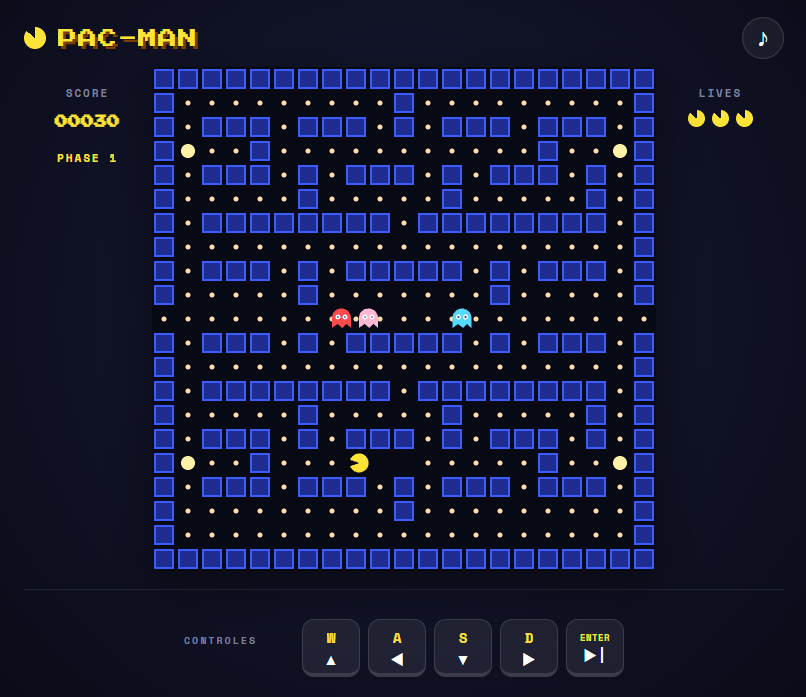
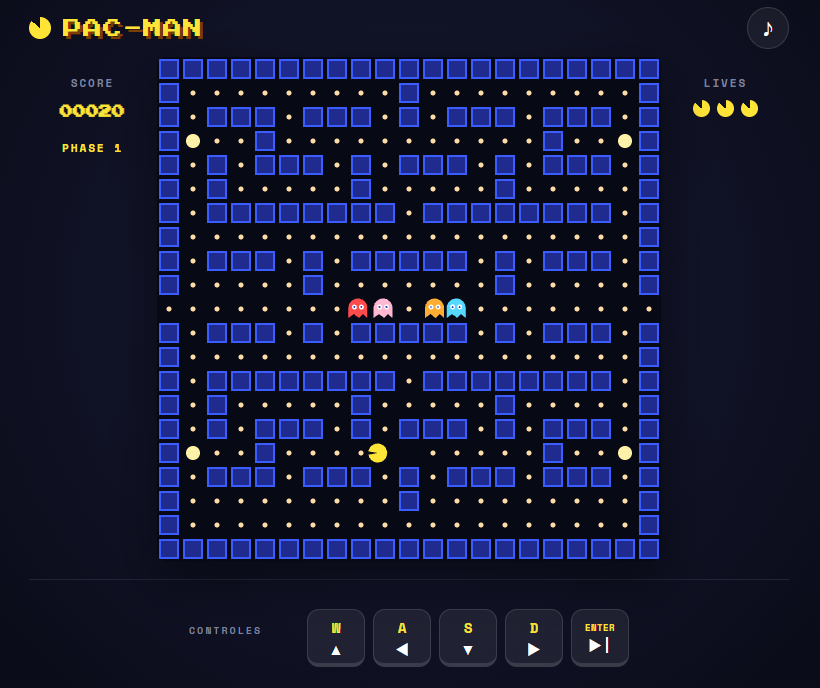
feat: add four distinct ghost personalities

diff --git a/src/game/GhostAI.js b/src/game/GhostAI.js
@@ -1,19 +1,20 @@
 import { GAME_CONFIG } from '../config/gameConfig.js'
 import { DIRECTIONS, REVERSE_DIRECTION } from '../entities/directions.js'
+import { getGhostTarget } from './ghostBehaviors.js'
 
 export class GhostAI {
   constructor (movement) {
     this.movement = movement
   }
 
-  update (ghost, player, frightenedUntil, dt, now) {
+  update (ghost, player, frightenedUntil, dt, now, ghosts = [ghost]) {
     const { tileSize } = GAME_CONFIG
     if (this.movement.atCenter(ghost.x) && this.movement.atCenter(ghost.y)) {
-      this.movement.snap(ghost)
       const gx = Math.round((ghost.x - tileSize / 2) / tileSize)
       const gy = Math.round((ghost.y - tileSize / 2) / tileSize)
       const decisionKey = `${gx},${gy}`
       if (ghost.lastDecision !== decisionKey) {
+        this.movement.snap(ghost)
         ghost.lastDecision = decisionKey
         let options = Object.keys(DIRECTIONS).filter(dir => dir !== 'none' && this.movement.canMove(ghost.x, ghost.y, dir))
         const reverse = REVERSE_DIRECTION[ghost.dir]
@@ -22,13 +23,17 @@ export class GhostAI {
         if (!options.length && reverse && this.movement.canMove(ghost.x, ghost.y, reverse)) options = [reverse]
 
         if (options.length) {
-          ghost.dir = this.chooseDirection(ghost, player, gx, gy, options, frightenedUntil > now)
+          ghost.dir = this.chooseDirection(ghost, player, gx, gy, options, frightenedUntil > now, ghosts)
         } else {
           ghost.dir = 'none'
         }
       } else if (!this.movement.canMove(ghost.x, ghost.y, ghost.dir)) {
         let options = Object.keys(DIRECTIONS).filter(dir => dir !== 'none' && this.movement.canMove(ghost.x, ghost.y, dir))
+        const reverse = REVERSE_DIRECTION[ghost.dir]
+        const forwardOptions = options.filter(dir => dir !== reverse)
+        if (forwardOptions.length) options = forwardOptions
         if (options.length) ghost.dir = options[0]
+        else ghost.dir = 'none'
       } else {
         this.movement.alignToCorridor(ghost)
       }
@@ -36,28 +41,28 @@ export class GhostAI {
     this.movement.move(ghost, ghost.speed, dt, false)
   }
 
-  chooseDirection (ghost, player, gx, gy, options, frightened) {
-    const { tileSize, columns, rows } = GAME_CONFIG
-    const px = Math.round((player.x - tileSize / 2) / tileSize)
-    const py = Math.round((player.y - tileSize / 2) / tileSize)
-    const playerDir = DIRECTIONS[player.dir] || DIRECTIONS.none
-    const target = { x: px, y: py }
-
-    if (!frightened && ghost.personality === 'ambusher') {
-      target.x = px + playerDir.x * 4
-      target.y = py + playerDir.y * 4
-    } else if (!frightened && ghost.personality === 'wanderer' && Math.random() < 0.45) {
-      target.x = gx < columns / 2 ? columns - 3 : 3
-      target.y = gy < rows / 2 ? rows - 3 : 3
-    }
+  chooseDirection (ghost, player, gx, gy, options, frightened, ghosts) {
+    const { tileSize } = GAME_CONFIG
+    const target = frightened
+      ? null
+      : getGhostTarget(ghost, player, ghosts, gx, gy)
+    const playerX = Math.round((player.x - tileSize / 2) / tileSize)
+    const playerY = Math.round((player.y - tileSize / 2) / tileSize)
 
     let best = options[0]
     let bestDistance = frightened ? -Infinity : Infinity
     for (const dir of options) {
       const vector = DIRECTIONS[dir]
-      const dx = gx + vector.x - target.x
-      const dy = gy + vector.y - target.y
-      const distance = dx * dx + dy * dy
+      let distance
+      if (frightened) {
+        const dx = gx + vector.x - playerX
+        const dy = gy + vector.y - playerY
+        distance = dx * dx + dy * dy
+      } else {
+        const dx = gx + vector.x - target.x
+        const dy = gy + vector.y - target.y
+        distance = dx * dx + dy * dy
+      }
       if ((frightened && distance > bestDistance) || (!frightened && distance < bestDistance)) {
         best = dir
         bestDistance = distance

diff --git a/src/game/Movement.js b/src/game/Movement.js
@@ -39,17 +39,27 @@ export class Movement {
   move (entity, speed, dt, isPlayer = false) {
     const { columns, rows } = GAME_CONFIG
     if (isPlayer && entity.nextDir) {
+      if (entity.nextDirExpires && performance.now() >= entity.nextDirExpires) {
+        entity.nextDir = 'none'
+        entity.nextDirExpires = 0
+      }
       if (entity.nextDir === REVERSE_DIRECTION[entity.dir]) {
         entity.dir = entity.nextDir
         entity.nextDir = 'none'
+        entity.nextDirExpires = 0
       } else if (entity.nextDir === entity.dir) {
         entity.nextDir = 'none'
+        entity.nextDirExpires = 0
       } else if (this.atCenter(entity.x) && this.atCenter(entity.y)) {
         if (this.canMove(entity.x, entity.y, entity.nextDir)) {
           this.alignTurnAxis(entity, entity.nextDir)
           entity.dir = entity.nextDir
+          entity.nextDir = 'none'
+          entity.nextDirExpires = 0
         }
+      } else if (this.tryBufferedTurn(entity)) {
         entity.nextDir = 'none'
+        entity.nextDirExpires = 0
       }
     }
 
@@ -76,6 +86,43 @@ export class Movement {
     } else {
       entity.x = this.nearestCenter(entity.x)
     }
+  }
+
+  tryBufferedTurn (entity) {
+    const { tileSize } = GAME_CONFIG
+    const direction = DIRECTIONS[entity.nextDir]
+    const currentDirection = DIRECTIONS[entity.dir] || DIRECTIONS.none
+    if (!direction || !currentDirection || direction.x === currentDirection.x && direction.y === currentDirection.y) return false
+    if (direction.x !== 0 && currentDirection.x !== 0) return false
+    if (direction.y !== 0 && currentDirection.y !== 0) return false
+
+    const turnWindow = 4
+
+    if (currentDirection.x !== 0) {
+      if (!this.atCenter(entity.y)) return false
+      const gridPosition = (entity.x - tileSize / 2) / tileSize
+      const centerIndex = currentDirection.x > 0 ? Math.ceil(gridPosition) : Math.floor(gridPosition)
+      const candidateX = centerIndex * tileSize + tileSize / 2
+      if (Math.abs(entity.x - candidateX) > turnWindow) return false
+      if (!this.canMove(candidateX, entity.y, entity.nextDir)) return false
+      this.alignTurnAxis(entity, entity.nextDir)
+      entity.dir = entity.nextDir
+      return true
+    }
+
+    if (currentDirection.y !== 0) {
+      if (!this.atCenter(entity.x)) return false
+      const gridPosition = (entity.y - tileSize / 2) / tileSize
+      const centerIndex = currentDirection.y > 0 ? Math.ceil(gridPosition) : Math.floor(gridPosition)
+      const candidateY = centerIndex * tileSize + tileSize / 2
+      if (Math.abs(entity.y - candidateY) > turnWindow) return false
+      if (!this.canMove(entity.x, candidateY, entity.nextDir)) return false
+      this.alignTurnAxis(entity, entity.nextDir)
+      entity.dir = entity.nextDir
+      return true
+    }
+
+    return false
   }
 
   alignToCorridor (entity) {

diff --git a/src/game/ghostBehaviors.js b/src/game/ghostBehaviors.js
@@ -1,0 +1,45 @@
+import { GAME_CONFIG } from '../config/gameConfig.js'
+import { DIRECTIONS } from '../entities/directions.js'
+
+export function getGhostTarget (ghost, player, ghosts, gx, gy) {
+  const { tileSize, columns, rows } = GAME_CONFIG
+  const playerX = Math.round((player.x - tileSize / 2) / tileSize)
+  const playerY = Math.round((player.y - tileSize / 2) / tileSize)
+  const playerDirection = DIRECTIONS[player.dir] || DIRECTIONS.none
+
+  switch (ghost.personality) {
+    case 'chaser':
+      return { x: playerX, y: playerY }
+    case 'ambusher':
+      return {
+        x: playerX + playerDirection.x * 4,
+        y: playerY + playerDirection.y * 4
+      }
+    case 'flanker': {
+      const blinky = ghosts.find(candidate => candidate.name === 'Blinky')
+      const blinkyX = blinky
+        ? Math.round((blinky.x - tileSize / 2) / tileSize)
+        : playerX
+      const blinkyY = blinky
+        ? Math.round((blinky.y - tileSize / 2) / tileSize)
+        : playerY
+      const pivotX = playerX + playerDirection.x * 2
+      const pivotY = playerY + playerDirection.y * 2
+      return {
+        x: pivotX * 2 - blinkyX,
+        y: pivotY * 2 - blinkyY
+      }
+    }
+    case 'shy': {
+      const distance = Math.hypot(gx - playerX, gy - playerY)
+      return distance > 8
+        ? { x: playerX, y: playerY }
+        : { x: 1, y: rows - 2 }
+    }
+    default:
+      return {
+        x: gx < columns / 2 ? columns - 3 : 3,
+        y: gy < rows / 2 ? rows - 3 : 3
+      }
+  }
+}

diff --git a/src/entities/createEntities.js b/src/entities/createEntities.js
@@ -1,4 +1,8 @@
 import { GAME_CONFIG } from '../config/gameConfig.js'
+import { createBlinky } from './ghosts/Blinky.js'
+import { createPinky } from './ghosts/Pinky.js'
+import { createInky } from './ghosts/Inky.js'
+import { createClyde } from './ghosts/Clyde.js'
 
 export function createPlayer () {
   const { tileSize } = GAME_CONFIG
@@ -14,10 +18,9 @@ export function createPlayer () {
 }
 
 export function createGhosts () {
-  const { tileSize } = GAME_CONFIG
-  return [
-    { x: 9.5 * tileSize, y: 10.5 * tileSize, dir: 'left', color: '#ff4b4b', speed: 78, centerLock: false, lastDecision: '', personality: 'chaser' },
-    { x: 10.5 * tileSize, y: 10.5 * tileSize, dir: 'up', color: '#ffb8d1', speed: 72, centerLock: false, lastDecision: '', personality: 'ambusher' },
-    { x: 11.5 * tileSize, y: 10.5 * tileSize, dir: 'right', color: '#55d9ff', speed: 68, centerLock: false, lastDecision: '', personality: 'wanderer' }
-  ]
+  return [createBlinky(), createPinky(), createInky(), createClyde()].map(ghost => ({
+    ...ghost,
+    spawnX: ghost.x,
+    spawnY: ghost.y
+  }))
 }

diff --git a/src/game/PacManGame.js b/src/game/PacManGame.js
@@ -87,7 +87,7 @@ export class PacManGame {
     if (this.running) {
       this.movement.move(this.player, GAME_CONFIG.playerSpeed, dt, true)
       this.collectPellet()
-      this.ghosts.forEach(ghost => this.ghostAI.update(ghost, this.player, this.frightenedUntil, dt, now))
+      this.ghosts.forEach(ghost => this.ghostAI.update(ghost, this.player, this.frightenedUntil, dt, now, this.ghosts))
       this.checkGhostCollisions(now)
     }
     this.renderer.draw(this.player, this.ghosts, now)
@@ -122,7 +122,13 @@ export class PacManGame {
         this.score += 200
         this.ui.updateHud(this.score, this.lives, this.level)
         this.audioService.ghostEaten()
-        Object.assign(ghost, { x: 10.5 * GAME_CONFIG.tileSize, y: 9.5 * GAME_CONFIG.tileSize, dir: 'left' })
+        Object.assign(ghost, {
+          x: ghost.spawnX,
+          y: ghost.spawnY,
+          dir: 'left',
+          lastDecision: '',
+          lastDecision: ''
+        })
       } else {
         this.loseLife()
         break

diff --git a/src/entities/ghosts/Blinky.js b/src/entities/ghosts/Blinky.js
@@ -1,0 +1,17 @@
+import { GAME_CONFIG } from '../../config/gameConfig.js'
+
+export function createBlinky () {
+  const { tileSize } = GAME_CONFIG
+  return {
+    name: 'Blinky',
+    personality: 'chaser',
+    color: '#ff4b4b',
+    x: 9.5 * tileSize,
+    y: 10.5 * tileSize,
+    dir: 'left',
+    speed: 78,
+    centerLock: false,
+    lastDecision: ''
+  }
+}
+

diff --git a/src/entities/ghosts/Inky.js b/src/entities/ghosts/Inky.js
@@ -1,0 +1,17 @@
+import { GAME_CONFIG } from '../../config/gameConfig.js'
+
+export function createInky () {
+  const { tileSize } = GAME_CONFIG
+  return {
+    name: 'Inky',
+    personality: 'flanker',
+    color: '#55d9ff',
+    x: 11.5 * tileSize,
+    y: 10.5 * tileSize,
+    dir: 'right',
+    speed: 68,
+    centerLock: false,
+    lastDecision: ''
+  }
+}
+

diff --git a/src/entities/ghosts/Pinky.js b/src/entities/ghosts/Pinky.js
@@ -1,0 +1,17 @@
+import { GAME_CONFIG } from '../../config/gameConfig.js'
+
+export function createPinky () {
+  const { tileSize } = GAME_CONFIG
+  return {
+    name: 'Pinky',
+    personality: 'ambusher',
+    color: '#ffb8d1',
+    x: 10.5 * tileSize,
+    y: 10.5 * tileSize,
+    dir: 'up',
+    speed: 72,
+    centerLock: false,
+    lastDecision: ''
+  }
+}
+

diff --git a/src/entities/ghosts/Clyde.js b/src/entities/ghosts/Clyde.js
@@ -1,0 +1,16 @@
+import { GAME_CONFIG } from '../../config/gameConfig.js'
+
+export function createClyde () {
+  const { tileSize } = GAME_CONFIG
+  return {
+    name: 'Clyde',
+    personality: 'shy',
+    color: '#ffad33',
+    x: 12.5 * tileSize,
+    y: 10.5 * tileSize,
+    dir: 'left',
+    speed: 66,
+    centerLock: false,
+    lastDecision: ''
+  }
+}

diff --git a/src/controllers/InputController.js b/src/controllers/InputController.js
@@ -62,6 +62,7 @@ export class InputController {
   setPlayerDirection (direction) {
     const player = this.getPlayer()
     player.nextDir = direction
+    player.nextDirExpires = performance.now() + 700
   }
 
   toggleSound () {

diff --git a/README.md b/README.md
@@ -34,7 +34,7 @@ Nao usa assets de audio externos: toda a trilha ambiente e os efeitos sao gerado
 - Confirmacao por Enter nas telas Ready, Game Over, replay e proxima fase
 - Quatro pellets especiais por fase
 - Modo de vulnerabilidade dos fantasmas por tempo limitado
-- Tres fantasmas com personalidades diferentes
+- Quatro fantasmas com cores e personalidades originais: Blinky, Pinky, Inky e Clyde
 - Mapas simetricos com corredores e blocos inspirados nos labirintos arcade
 - Portais horizontais, verticais ou ambos
 - Sistema de vidas, pontuacao e fases
